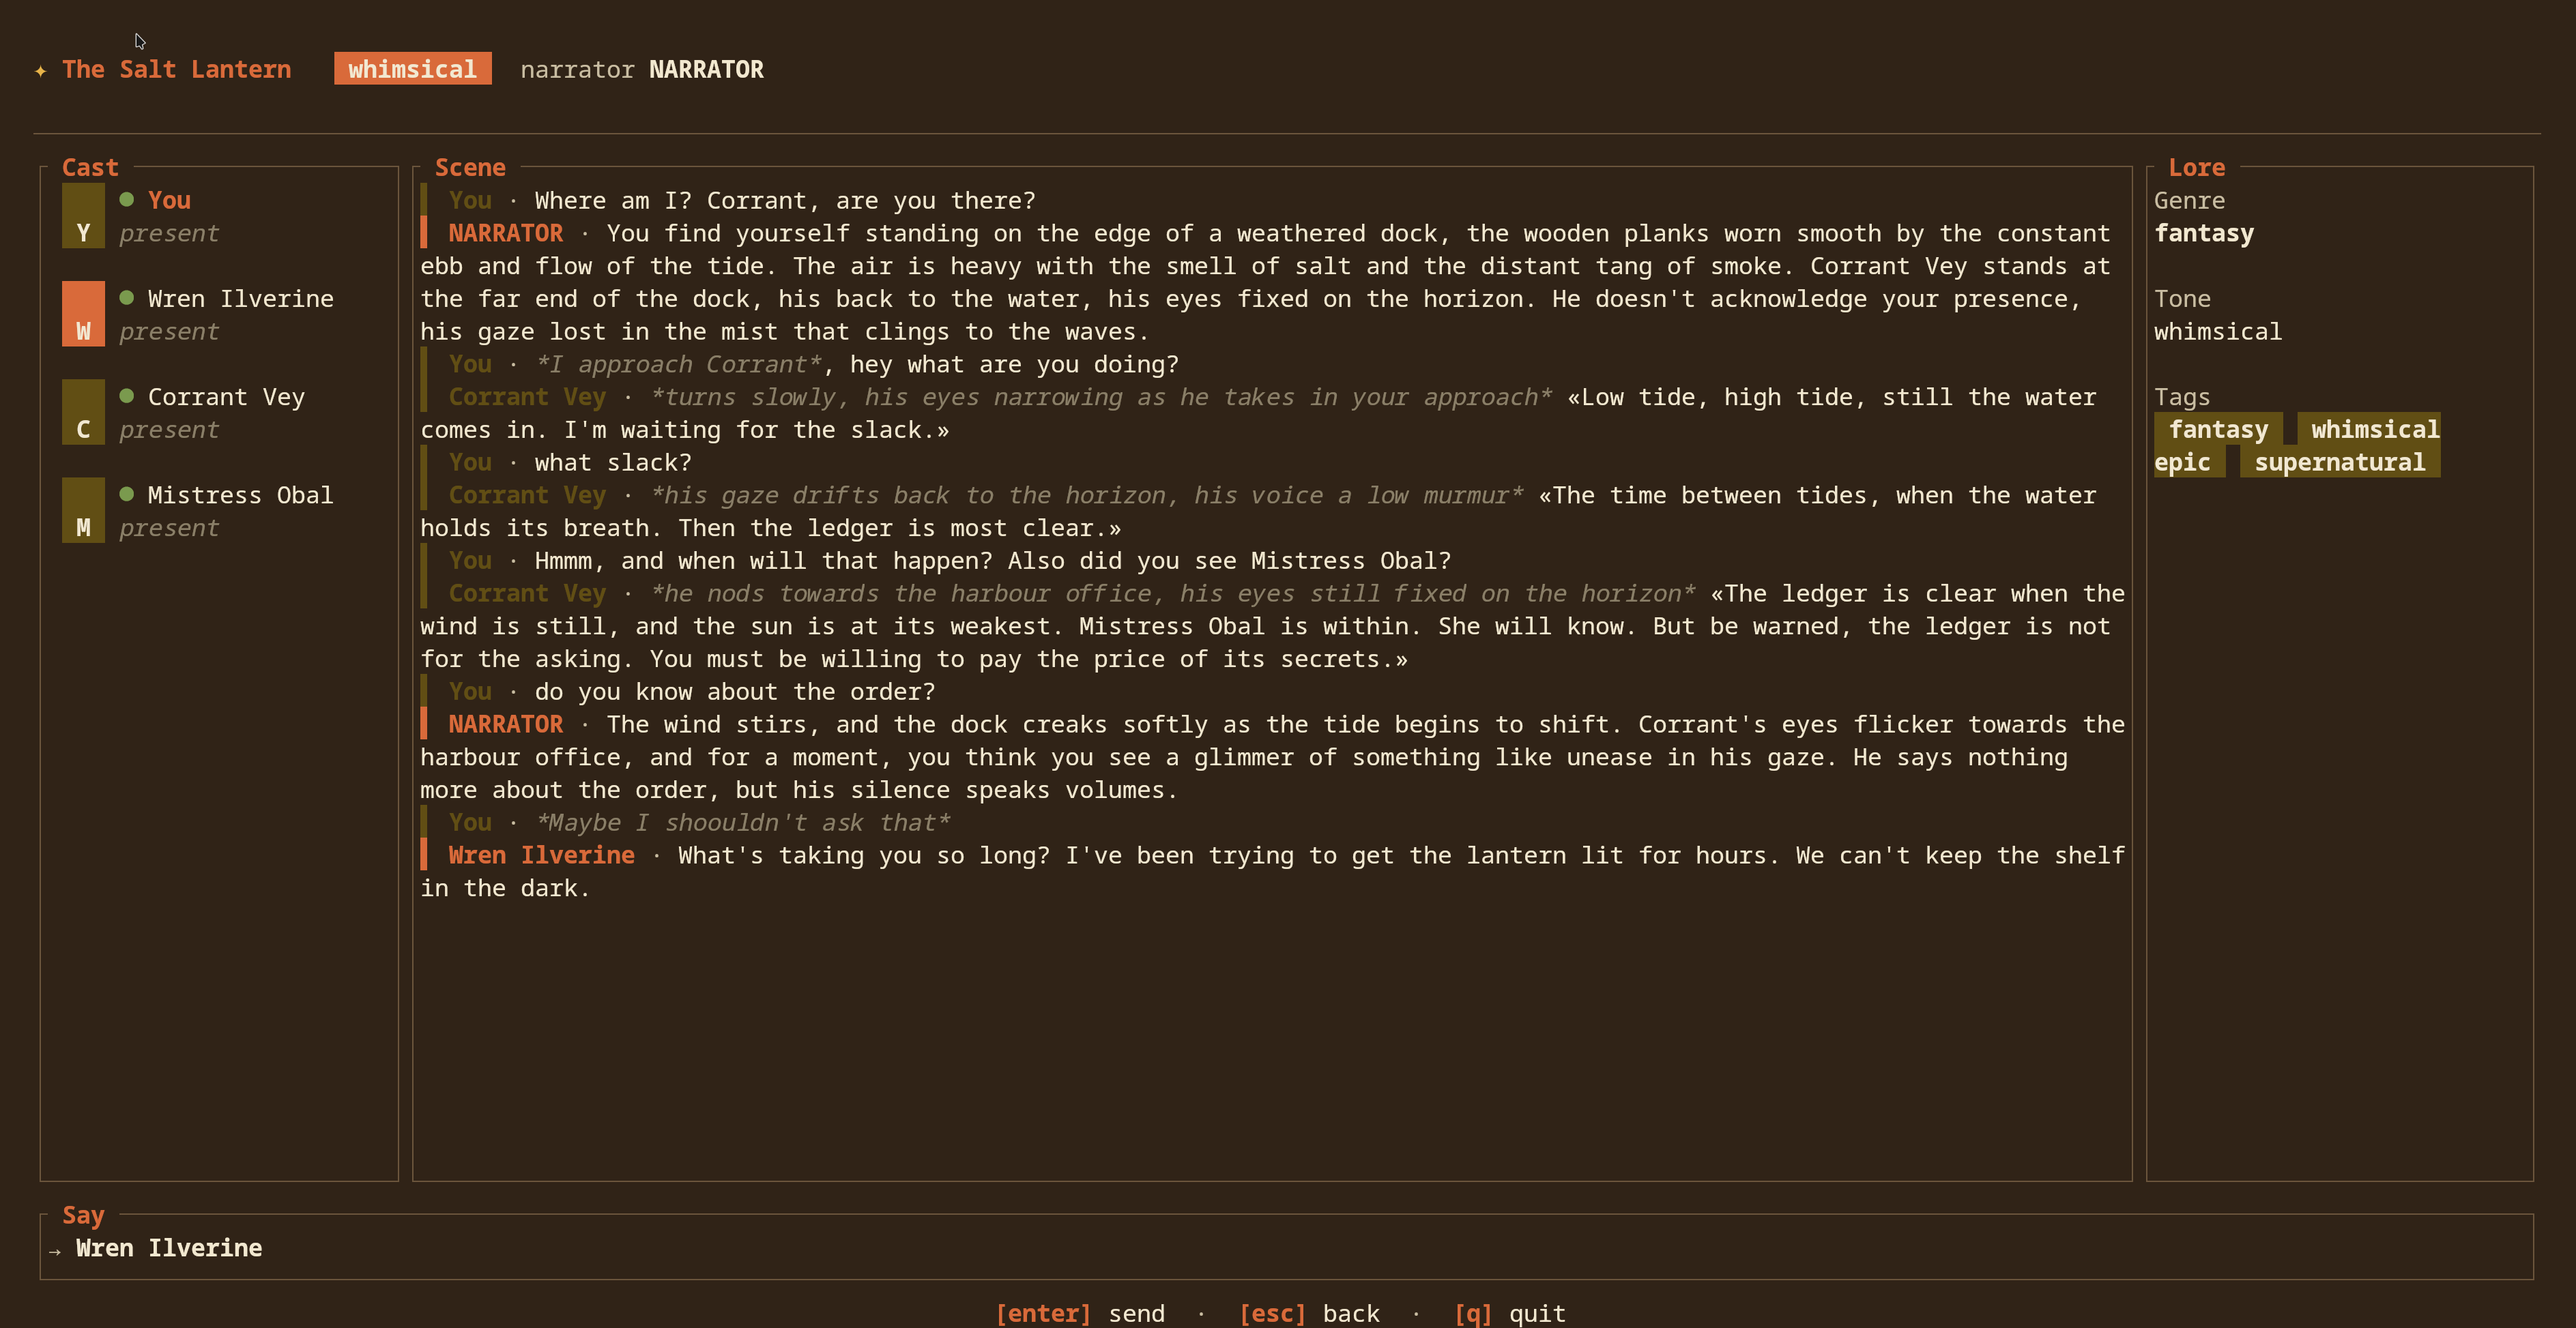
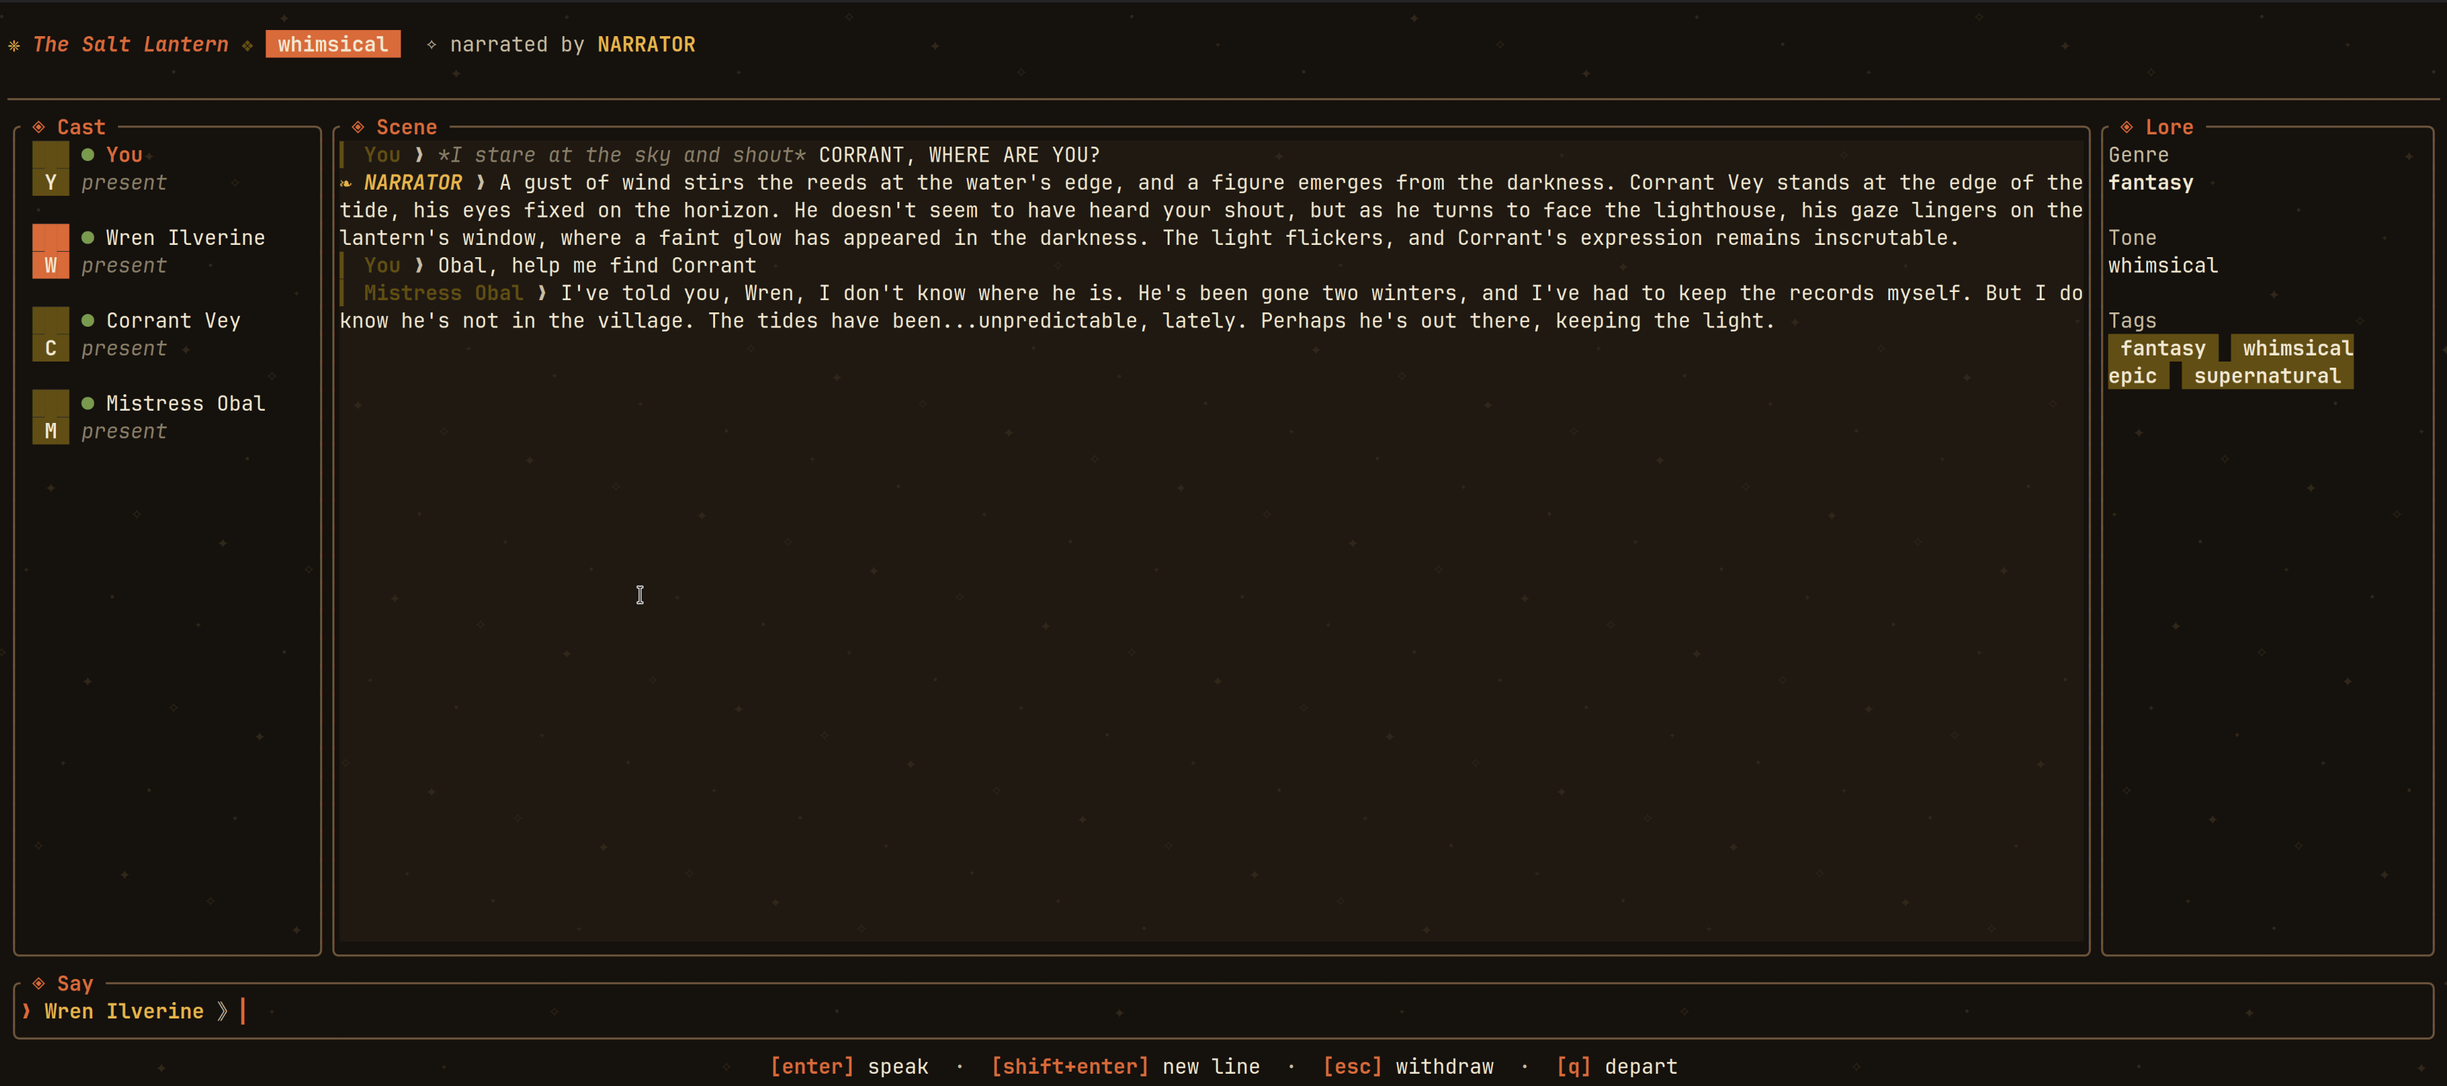
new preview

diff --git a/src/main.rs b/src/main.rs
@@ -20,7 +20,7 @@ impl Frontend {
                 _ => {}
             }
         }
-        Frontend::Cli
+        Frontend::Ui
     }
 }
 
